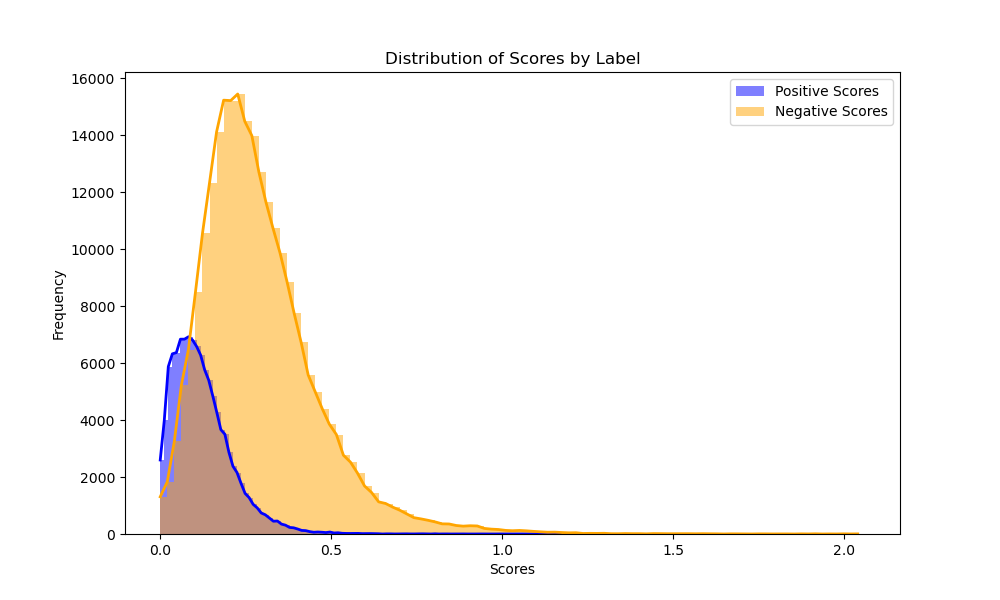
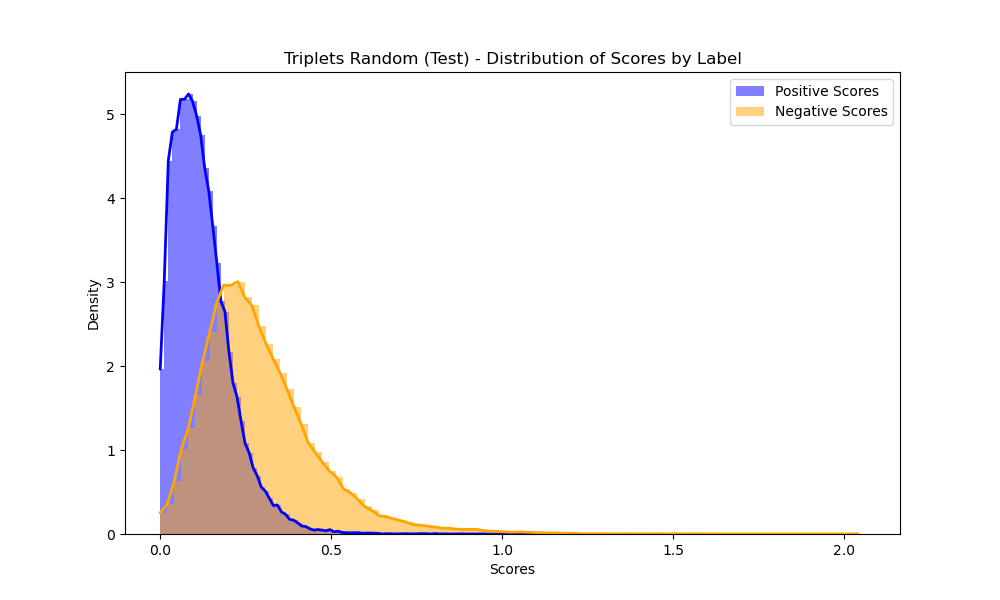
push all figures

diff --git a/triplets-random/evals/generate_curves.py b/triplets-random/evals/generate_curves.py
@@ -49,7 +49,7 @@ plt.plot(train_fpr, train_tpr, color='blue', lw=2, label=f'Train ROC curve (AUC 
 plt.plot(baseline_fpr, baseline_tpr, color='red', lw=2, label=f'Baseline ROC curve (AUC = {baseline_roc_auc:.2f})')
 plt.xlabel('False Positive Rate')
 plt.ylabel('True Positive Rate')
-plt.title('N-Pair Random - Raw ESM2 Embeddings - ROC Curve')
+plt.title('N-Pair Random (Test) - ROC Curve')
 plt.legend(loc="lower right")
 plt.savefig('roc_curve_train.png')
 plt.close()
@@ -60,7 +60,7 @@ plt.plot(test_fpr, test_tpr, color='green', lw=2, label=f'Test ROC curve (AUC = 
 plt.plot(baseline_fpr, baseline_tpr, color='red', lw=2, label=f'Baseline ROC curve (AUC = {baseline_roc_auc:.2f})')
 plt.xlabel('False Positive Rate')
 plt.ylabel('True Positive Rate')
-plt.title('N-Pair Random - Raw ESM2 Embeddings - ROC Curve')
+plt.title('N-Pair Random (Train) - ROC Curve')
 plt.legend(loc="lower right")
 plt.savefig('roc_curve_test.png')
 plt.close()
@@ -83,7 +83,7 @@ plt.figure()
 plt.plot(train_recall, train_precision, color='blue', lw=2, label=f'Train PR curve (AUC = {train_pr_auc:.2f})')
 plt.xlabel('Recall')
 plt.ylabel('Precision')
-plt.title('N-Pair Random - Raw ESM2 Embeddings - PR Curve')
+plt.title('N-Pair Random (Test) - PR Curve')
 plt.legend(loc="upper right")
 plt.savefig('pr_curve_train.png')
 plt.close()
@@ -93,7 +93,7 @@ plt.figure()
 plt.plot(test_recall, test_precision, color='green', lw=2, label=f'Test PR curve (AUC = {test_pr_auc:.2f})')
 plt.xlabel('Recall')
 plt.ylabel('Precision')
-plt.title('N-Pair Random - Raw ESM2 Embeddings - PR Curve')
+plt.title('N-Pair Random (Train) - PR Curve')
 plt.legend(loc="upper right")
 plt.savefig('pr_curve_test.png')
 plt.close()
@@ -106,11 +106,11 @@ print("Generated PR curves.")
 
 # Generate histogram of scores by label
 plt.figure(figsize=(10, 6))
-h1 = plt.hist(triplets_rand_train_scores[triplets_rand_train_labels == 1], bins=100, color='blue', alpha=0.5, label='Positive Scores')
-h2 = plt.hist(triplets_rand_train_scores[triplets_rand_train_labels == 0], bins=100, color='orange', alpha=0.5, label='Negative Scores')
+h1 = plt.hist(triplets_rand_train_scores[triplets_rand_train_labels == 1], bins=100, color='blue', alpha=0.5, label='Positive Scores', density=True)
+h2 = plt.hist(triplets_rand_train_scores[triplets_rand_train_labels == 0], bins=100, color='orange', alpha=0.5, label='Negative Scores', density=True)
 plt.xlabel('Scores')
-plt.ylabel('Frequency')
-plt.title('Distribution of Scores by Label')
+plt.ylabel('Density')
+plt.title('Triplets Random (Test) - Distribution of Scores by Label')
 plt.legend()
 
 # Trace lines through the top of the histogram
@@ -123,8 +123,12 @@ plt.close()
 
 # Generate histogram of scores by label
 plt.figure(figsize=(10, 6))
-h1 = plt.hist(triplets_rand_test_scores[triplets_rand_test_labels == 1], bins=100, color='blue', alpha=0.5, label='Positive Scores')
-h2 = plt.hist(triplets_rand_test_scores[triplets_rand_test_labels == 0], bins=100, color='orange', alpha=0.5, label='Negative Scores')
+h1 = plt.hist(triplets_rand_test_scores[triplets_rand_test_labels == 1], bins=100, color='blue', alpha=0.5, label='Positive Scores', density=True)
+h2 = plt.hist(triplets_rand_test_scores[triplets_rand_test_labels == 0], bins=100, color='orange', alpha=0.5, label='Negative Scores', density=True)
+plt.xlabel('Scores')
+plt.ylabel('Density')
+plt.title('Triplets Random (Train) - Distribution of Scores by Label')
+plt.legend()
 
 # Trace lines through the top of the histogram
 max_height = max(max(h1[0]), max(h2[0]))

diff --git a/triplets-hard/evals/generate_curves.py b/triplets-hard/evals/generate_curves.py
@@ -49,7 +49,7 @@ plt.plot(train_fpr, train_tpr, color='blue', lw=2, label=f'Train ROC curve (AUC 
 plt.plot(baseline_fpr, baseline_tpr, color='red', lw=2, label=f'Baseline ROC curve (AUC = {baseline_roc_auc:.2f})')
 plt.xlabel('False Positive Rate')
 plt.ylabel('True Positive Rate')
-plt.title('N-Pair Random - Raw ESM2 Embeddings - ROC Curve')
+plt.title('Triplets Hard (Test) - ROC Curve')
 plt.legend(loc="lower right")
 plt.savefig('roc_curve_train.png')
 plt.close()
@@ -60,7 +60,7 @@ plt.plot(test_fpr, test_tpr, color='green', lw=2, label=f'Test ROC curve (AUC = 
 plt.plot(baseline_fpr, baseline_tpr, color='red', lw=2, label=f'Baseline ROC curve (AUC = {baseline_roc_auc:.2f})')
 plt.xlabel('False Positive Rate')
 plt.ylabel('True Positive Rate')
-plt.title('N-Pair Random - Raw ESM2 Embeddings - ROC Curve')
+plt.title('Triplets Hard (Train) - ROC Curve')
 plt.legend(loc="lower right")
 plt.savefig('roc_curve_test.png')
 plt.close()
@@ -83,7 +83,7 @@ plt.figure()
 plt.plot(train_recall, train_precision, color='blue', lw=2, label=f'Train PR curve (AUC = {train_pr_auc:.2f})')
 plt.xlabel('Recall')
 plt.ylabel('Precision')
-plt.title('N-Pair Random - Raw ESM2 Embeddings - PR Curve')
+plt.title('Triplets Hard (Test) - PR Curve')
 plt.legend(loc="upper right")
 plt.savefig('pr_curve_train.png')
 plt.close()
@@ -93,7 +93,7 @@ plt.figure()
 plt.plot(test_recall, test_precision, color='green', lw=2, label=f'Test PR curve (AUC = {test_pr_auc:.2f})')
 plt.xlabel('Recall')
 plt.ylabel('Precision')
-plt.title('N-Pair Random - Raw ESM2 Embeddings - PR Curve')
+plt.title('Triplets Hard (Train) - PR Curve')
 plt.legend(loc="upper right")
 plt.savefig('pr_curve_test.png')
 plt.close()
@@ -106,11 +106,11 @@ print("Generated PR curves.")
 
 # Generate histogram of scores by label
 plt.figure(figsize=(10, 6))
-h1 = plt.hist(triplets_hard_train_scores[triplets_hard_train_labels == 1], bins=100, color='blue', alpha=0.5, label='Positive Scores')
-h2 = plt.hist(triplets_hard_train_scores[triplets_hard_train_labels == 0], bins=100, color='orange', alpha=0.5, label='Negative Scores')
+h1 = plt.hist(triplets_hard_train_scores[triplets_hard_train_labels == 1], bins=100, color='blue', alpha=0.5, label='Positive Scores', density=True)
+h2 = plt.hist(triplets_hard_train_scores[triplets_hard_train_labels == 0], bins=100, color='orange', alpha=0.5, label='Negative Scores', density=True)
 plt.xlabel('Scores')
-plt.ylabel('Frequency')
-plt.title('Distribution of Scores by Label')
+plt.ylabel('Density')
+plt.title('Triplets Hard (Test) - Distribution of Scores by Label')
 plt.legend()
 
 # Trace lines through the top of the histogram
@@ -123,8 +123,12 @@ plt.close()
 
 # Generate histogram of scores by label
 plt.figure(figsize=(10, 6))
-h1 = plt.hist(triplets_hard_test_scores[triplets_hard_test_labels == 1], bins=100, color='blue', alpha=0.5, label='Positive Scores')
-h2 = plt.hist(triplets_hard_test_scores[triplets_hard_test_labels == 0], bins=100, color='orange', alpha=0.5, label='Negative Scores')
+h1 = plt.hist(triplets_hard_test_scores[triplets_hard_test_labels == 1], bins=100, color='blue', alpha=0.5, label='Positive Scores', density=True)
+h2 = plt.hist(triplets_hard_test_scores[triplets_hard_test_labels == 0], bins=100, color='orange', alpha=0.5, label='Negative Scores', density=True)
+plt.xlabel('Scores')
+plt.ylabel('Density')
+plt.title('Triplets Hard (Train) - Distribution of Scores by Label')
+plt.legend()
 
 # Trace lines through the top of the histogram
 max_height = max(max(h1[0]), max(h2[0]))

diff --git a/npair-random/evals/generate_curves.py b/npair-random/evals/generate_curves.py
@@ -49,7 +49,7 @@ plt.plot(train_fpr, train_tpr, color='blue', lw=2, label=f'Train ROC curve (AUC 
 plt.plot(baseline_fpr, baseline_tpr, color='red', lw=2, label=f'Baseline ROC curve (AUC = {baseline_roc_auc:.2f})')
 plt.xlabel('False Positive Rate')
 plt.ylabel('True Positive Rate')
-plt.title('N-Pair Random - Raw ESM2 Embeddings - ROC Curve')
+plt.title('N-Pair Random (Test) - ROC Curve')
 plt.legend(loc="lower right")
 plt.savefig('roc_curve_train.png')
 plt.close()
@@ -60,7 +60,7 @@ plt.plot(test_fpr, test_tpr, color='green', lw=2, label=f'Test ROC curve (AUC = 
 plt.plot(baseline_fpr, baseline_tpr, color='red', lw=2, label=f'Baseline ROC curve (AUC = {baseline_roc_auc:.2f})')
 plt.xlabel('False Positive Rate')
 plt.ylabel('True Positive Rate')
-plt.title('N-Pair Random - Raw ESM2 Embeddings - ROC Curve')
+plt.title('N-Pair Random (Train) - ROC Curve')
 plt.legend(loc="lower right")
 plt.savefig('roc_curve_test.png')
 plt.close()
@@ -83,7 +83,7 @@ plt.figure()
 plt.plot(train_recall, train_precision, color='blue', lw=2, label=f'Train PR curve (AUC = {train_pr_auc:.2f})')
 plt.xlabel('Recall')
 plt.ylabel('Precision')
-plt.title('N-Pair Random - Raw ESM2 Embeddings - PR Curve')
+plt.title('N-Pair Random (Test) - PR Curve')
 plt.legend(loc="upper right")
 plt.savefig('pr_curve_train.png')
 plt.close()
@@ -93,7 +93,7 @@ plt.figure()
 plt.plot(test_recall, test_precision, color='green', lw=2, label=f'Test PR curve (AUC = {test_pr_auc:.2f})')
 plt.xlabel('Recall')
 plt.ylabel('Precision')
-plt.title('N-Pair Random - Raw ESM2 Embeddings - PR Curve')
+plt.title('N-Pair Random (Train) - PR Curve')
 plt.legend(loc="upper right")
 plt.savefig('pr_curve_test.png')
 plt.close()
@@ -106,11 +106,11 @@ print("Generated PR curves.")
 
 # Generate histogram of scores by label
 plt.figure(figsize=(10, 6))
-h1 = plt.hist(npair_train_scores[npair_train_labels == 1], bins=100, color='blue', alpha=0.5, label='Positive Scores')
-h2 = plt.hist(npair_train_scores[npair_train_labels == 0], bins=100, color='orange', alpha=0.5, label='Negative Scores')
+h1 = plt.hist(npair_train_scores[npair_train_labels == 1], bins=100, color='blue', alpha=0.5, label='Positive Scores', density=True)
+h2 = plt.hist(npair_train_scores[npair_train_labels == 0], bins=100, color='orange', alpha=0.5, label='Negative Scores', density=True)
 plt.xlabel('Scores')
-plt.ylabel('Frequency')
-plt.title('Distribution of Scores by Label')
+plt.ylabel('Density')
+plt.title('N-Pair Random (Test) - Distribution of Scores by Label')
 plt.legend()
 
 # Trace lines through the top of the histogram
@@ -123,8 +123,12 @@ plt.close()
 
 # Generate histogram of scores by label
 plt.figure(figsize=(10, 6))
-h1 = plt.hist(npair_test_scores[npair_test_labels == 1], bins=100, color='blue', alpha=0.5, label='Positive Scores')
-h2 = plt.hist(npair_test_scores[npair_test_labels == 0], bins=100, color='orange', alpha=0.5, label='Negative Scores')
+h1 = plt.hist(npair_test_scores[npair_test_labels == 1], bins=100, color='blue', alpha=0.5, label='Positive Scores', density=True)
+h2 = plt.hist(npair_test_scores[npair_test_labels == 0], bins=100, color='orange', alpha=0.5, label='Negative Scores', density=True)
+plt.xlabel('Scores')
+plt.ylabel('Density')
+plt.title('N-Pair Random (Train) - Distribution of Scores by Label')
+plt.legend()
 
 # Trace lines through the top of the histogram
 max_height = max(max(h1[0]), max(h2[0]))

diff --git a/baseline/evals/generate_curves.py b/baseline/evals/generate_curves.py
@@ -3,18 +3,8 @@ import pandas as pd
 import matplotlib.pyplot as plt
 from sklearn.metrics import roc_curve, auc, precision_recall_curve
 
-NEIGHBORS = 1
-
-
-suffix = ''
-
-if NEIGHBORS == 1:
-    suffix = '_k1'
-elif NEIGHBORS == 50:
-    suffix = ''
-
-scores = np.load(f'/scratch/gpfs/jr8867/main/db/indices/baseline/evals/baseline_scores{suffix}.npy')
-labels = np.load(f'/scratch/gpfs/jr8867/main/db/indices/baseline/evals/baseline_labels{suffix}.npy')
+scores = np.load(f'/scratch/gpfs/jr8867/main/db/indices/baseline/evals/baseline_scores.npy')
+labels = np.load(f'/scratch/gpfs/jr8867/main/db/indices/baseline/evals/baseline_labels.npy')
 
 print("Loaded scores and labels.")
 
@@ -40,7 +30,7 @@ plt.plot(fpr, tpr, color='blue', lw=2, label=f'ROC curve (AUC = {roc_auc:.2f})')
 plt.plot([0, 1], [0, 1], color='gray', lw=2, linestyle='--')
 plt.xlabel('False Positive Rate')
 plt.ylabel('True Positive Rate')
-plt.title('Baseline - Raw ESM2 Embeddings - ROC Curve')
+plt.title('Baseline - ROC Curve')
 plt.legend(loc="lower right")
 plt.savefig('roc_curve.png')
 plt.close()
@@ -61,7 +51,7 @@ plt.plot(recall, precision, color='blue', lw=2, label=f'Baseline PR curve (AUC =
 plt.plot([0, 1], [1, 0], color='gray', linestyle='--', label='Random Classifier')
 plt.xlabel('Recall')
 plt.ylabel('Precision')
-plt.title('Baseline - Raw ESM2 Embeddings - Precision-Recall Curve')
+plt.title('Baseline - Precision-Recall Curve')
 plt.legend(loc="upper right")
 plt.xlim([0.0, 1.0])
 plt.ylim([0.0, 1.05])
@@ -77,11 +67,11 @@ print(f"Generated PR curve with AUC = {pr_auc:.4f}")
 
 # Generate histogram of scores by label
 plt.figure(figsize=(10, 6))
-h1 = plt.hist(scores[labels == 1], bins=100, color='blue', alpha=0.5, label='Positive Scores')
-h2 = plt.hist(scores[labels == 0], bins=100, color='orange', alpha=0.5, label='Negative Scores')
+h1 = plt.hist(scores[labels == 1], bins=100, color='blue', alpha=0.5, label='Positive Scores', density=True)
+h2 = plt.hist(scores[labels == 0], bins=100, color='orange', alpha=0.5, label='Negative Scores', density=True)
 plt.xlabel('Scores')
-plt.ylabel('Frequency')
-plt.title('Distribution of Scores by Label')
+plt.ylabel('Density')
+plt.title('Baseline - Distribution of Scores by Label')
 plt.legend()
 
 # Trace lines through the top of the histogram
